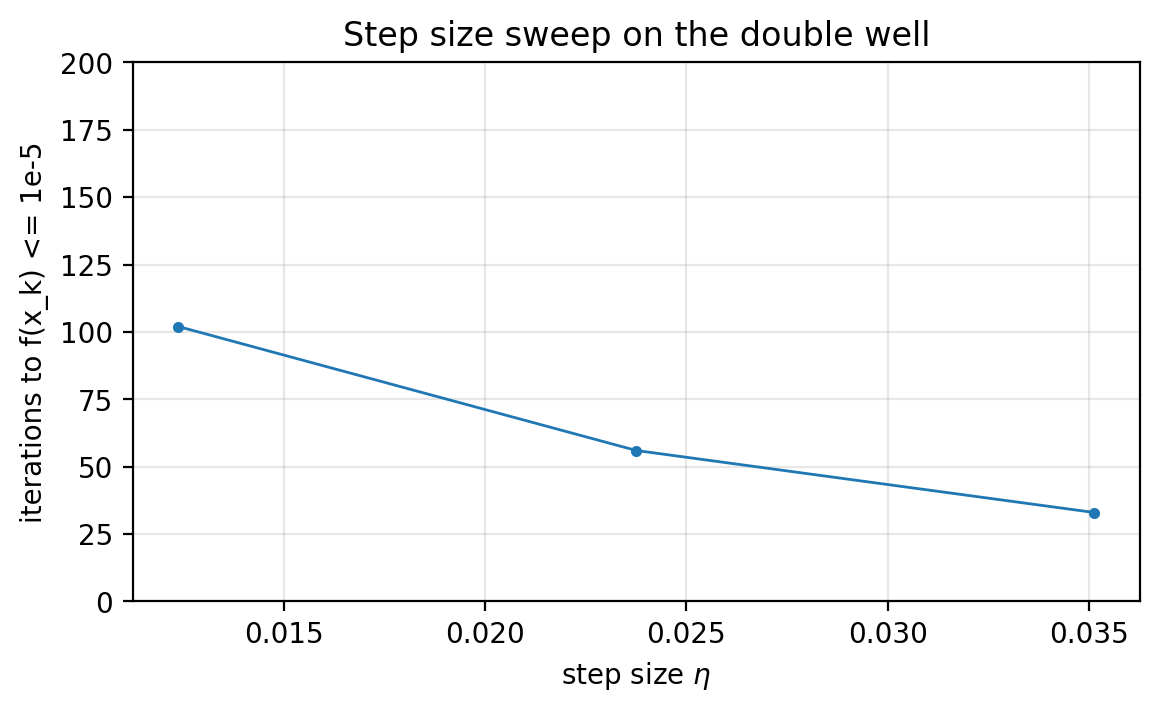
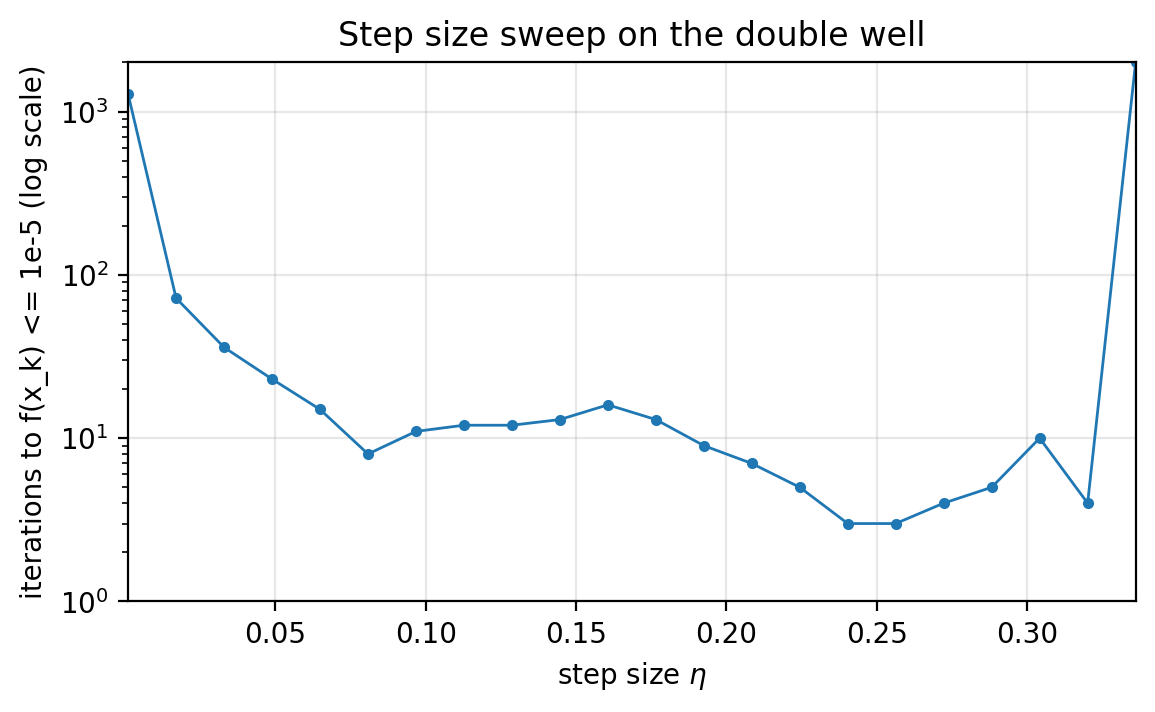
plots shaping up

diff --git a/section/1/notes.md b/section/1/notes.md
@@ -350,6 +350,19 @@ def main():
 
 if __name__ == "__main__":
     main()
+
+# Output:
+# k= 0  x=+5.000000  f(x)=1.250e+01  |f'(x)|=5.000e+00
+# k= 1  x=+2.500000  f(x)=3.125e+00  |f'(x)|=2.500e+00
+# k= 2  x=+1.250000  f(x)=7.812e-01  |f'(x)|=1.250e+00
+# k= 3  x=+0.625000  f(x)=1.953e-01  |f'(x)|=6.250e-01
+# k= 4  x=+0.312500  f(x)=4.883e-02  |f'(x)|=3.125e-01
+# k= 5  x=+0.156250  f(x)=1.221e-02  |f'(x)|=1.562e-01
+# k= 6  x=+0.078125  f(x)=3.052e-03  |f'(x)|=7.812e-02
+# k= 7  x=+0.039062  f(x)=7.629e-04  |f'(x)|=3.906e-02
+# k= 8  x=+0.019531  f(x)=1.907e-04  |f'(x)|=1.953e-02
+# k= 9  x=+0.009766  f(x)=4.768e-05  |f'(x)|=9.766e-03
+# final x=+0.004883  final f(x)=1.192e-05
 ```
 
 ### Full version: logging + stopping + a diagnostics plot
@@ -437,7 +450,14 @@ def main():
 
 if __name__ == "__main__":
     main()
+
+# Output:
+# Final x: 7.275958e-11
+# Final f(x): 2.646978e-21
+# Iterations: 37
 ```
+
+Here we stop when $\|f'(x)\| \le 10^{-10}$ (set by `eps_grad=1e-10`), with a max-iteration cap of 80.
 
 For $f(x)=\tfrac{1}{2}x^2$, the objective and the derivative are directly related:
 
@@ -485,6 +505,8 @@ For simple formulas this is manageable. As soon as the loss becomes a long compo
 
 PyTorch can compute derivatives automatically. You write the loss as code, and PyTorch produces the derivative with respect to variables you mark as trackable.
 
+In such (reverse mode) *autodifferentiation* software, we call the evaluation of the loss function on a given input a **forward pass**. We call the computation of the derivative, on the other hand, the **backward pass**. 
+
 In this lecture we will treat a **single scalar** $x$ as our parameter. In PyTorch, even a scalar is represented as a tensor.
 
 ### What is a tensor here?
@@ -507,6 +529,11 @@ loss.backward()                             # compute d(loss)/dx
 print("x =", x.item())
 print("loss =", loss.item())
 print("d(loss)/dx =", x.grad.item())        # should be 2.0
+
+# Output:
+# x = 2.0
+# loss = 2.0
+# d(loss)/dx = 2.0
 ```
 
 What to remember:
@@ -543,6 +570,10 @@ analytic_val = 2.0 * 2.0 * (2.0**2 - 1.0)   # 2x(x^2-1) at x=2
 
 print("autograd:", autograd_val)
 print("analytic:", analytic_val)
+
+# Output:
+# autograd: 12.0
+# analytic: 12.0
 ```
 
 This is a quick consistency check before you write a full loop.
@@ -552,6 +583,8 @@ This is a quick consistency check before you write a full loop.
 ### Recorded operations + chain rule (what `backward()` is doing)
 
 When you compute a loss from `x`, PyTorch records the sequence of operations used to build that loss. During `backward()`, it applies the chain rule in reverse order.
+
+That is why it is called “backward”: the chain rule starts at the end (the loss) and works back through the computation.
 
 Example loss:
 
@@ -579,6 +612,23 @@ A sketch of the forward computation:
 x  ->  u = x^2  ->  v = u - 1  ->  loss = 0.5 * v^2
 ```
 
+A sketch of the backward computation (same example, with local derivatives):
+
+```
+loss = 0.5 * v^2
+  |  d(loss)/d(v) = v
+  v
+v = u - 1
+  |  d(v)/d(u) = 1
+  v
+u = x^2
+  |  d(u)/d(x) = 2x
+  v
+  x
+```
+
+To read it: multiply the local derivatives along the path to get $df/dx$.
+
 ### Pitfall A: gradients accumulate unless you clear them
 
 If you call `backward()` multiple times, PyTorch adds into `x.grad`. For “one gradient per step” loops, you must clear `x.grad` each iteration.
@@ -597,6 +647,11 @@ print("after second backward, x.grad =", x.grad.item())  # accumulated
 x.grad = None
 (0.5 * (x - 1.0)**2).backward()
 print("after clearing, x.grad =", x.grad.item())         # correct for the last loss
+
+# Output:
+# after first backward, x.grad = 2.0
+# after second backward, x.grad = 3.0
+# after clearing, x.grad = 1.0
 ```
 
 ### Pitfall B: tracking the update step breaks the loop
@@ -607,7 +662,7 @@ A tempting update is:
 x = x - eta * x.grad
 ```
 
-This creates a *new* tensor `x` built from tracked operations. In a beginner loop, the next iteration typically fails because the gradient you expect to read from `x.grad` is no longer populated.
+This creates a *new* `x` and replaces the original tracked variable. PyTorch only fills `.grad` for the original variable you told it to track, so after the replacement, `x.grad` is empty in the next step.
 
 A tiny failing example:
 
@@ -623,7 +678,7 @@ loss = 0.5 * x**2
 loss.backward()
 print("step 1 grad:", x.grad.item())
 
-# Wrong update: records the update in the graph and replaces x
+# Wrong update: replaces the tracked variable
 x = x - eta * x.grad
 
 # Step 2
@@ -631,7 +686,11 @@ x.grad = None
 loss = 0.5 * x**2
 loss.backward()
 
-print("step 2 grad:", x.grad)  # typically None in this beginner pattern
+print("step 2 grad:", x.grad)  # None because x is no longer the original tracked variable
+
+# Output:
+# step 1 grad: 2.0
+# step 2 grad: None
 ```
 
 Correct fix: update without tracking.
@@ -643,9 +702,9 @@ with torch.no_grad():
 
 ### Pitfall C: calling `backward()` twice on the same recorded operations
 
-If you call `backward()` twice on the same loss object, PyTorch raises an error.
+PyTorch uses the saved computation record once and then clears it to save memory. Calling `backward()` again on the same loss tries to reuse a cleared record, so it raises an error.
 
-In gradient descent loops, the solution is simple: **recompute the loss each iteration** (new forward pass), call `backward()` once, update, repeat.
+You can tell PyTorch to keep the record (`retain_graph=True`), but we do not need that for simple gradient descent loops. The standard pattern is: **recompute the loss each iteration** (new forward pass), call `backward()` once, update, repeat.
 
 ### A complete 1D gradient descent loop in PyTorch
 
@@ -737,6 +796,11 @@ def main():
 
 if __name__ == "__main__":
     main()
+
+# Output:
+# [quadratic]  final x=7.275958e-11, final loss=2.646978e-21, iters=37
+# [shifted]    final x=1.000000e+00, final loss=0.000000e+00, iters=27
+# [doublewell] final x=9.999991e-01, final loss=1.818989e-12, iters=200
 ```
 
 Only the definition of `loss_fn` changes across these examples. For the double well, we reduce the step size for stability. The loop structure stays the same.
@@ -818,7 +882,9 @@ f(x)=\tfrac{1}{2}(x^2-1)^2
 $$
 there are two global minimizers ($x=-1$ and $x=1$), and the curvature depends on where you are. A fixed step size can behave differently depending on initialization.
 
-We can still run the same tuning sweep, but we must interpret it carefully: we are measuring “time-to-reach a minimizer” from a fixed starting point.
+We can still run the same tuning sweep, but we must interpret it carefully: we are measuring “time-to-reach a minimizer” from a fixed starting point. To make the sweep informative, we start at $x_0=2$; for larger initializations the successful step-size range can shrink.
+
+Here we sweep a wider range of step sizes; runs that do not reach the target within the cap show up at the max-iteration ceiling.
 
 ![Step size sweep on the double well](figures/stepsize_sweep_doublewell.png)
 *Figure 1.7: The best fixed step size depends on the objective and the initialization. For nonconvex problems, sweeping hyperparameters is often the pragmatic baseline.*
